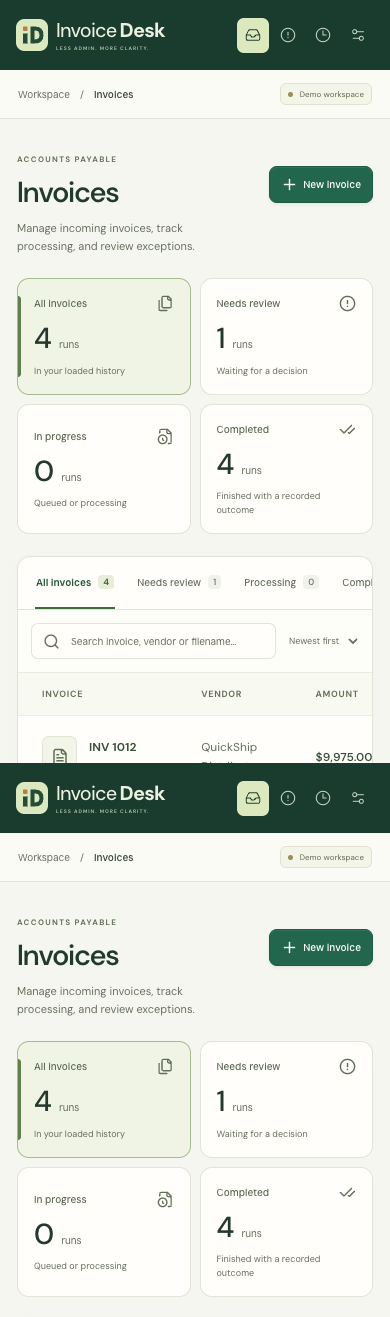
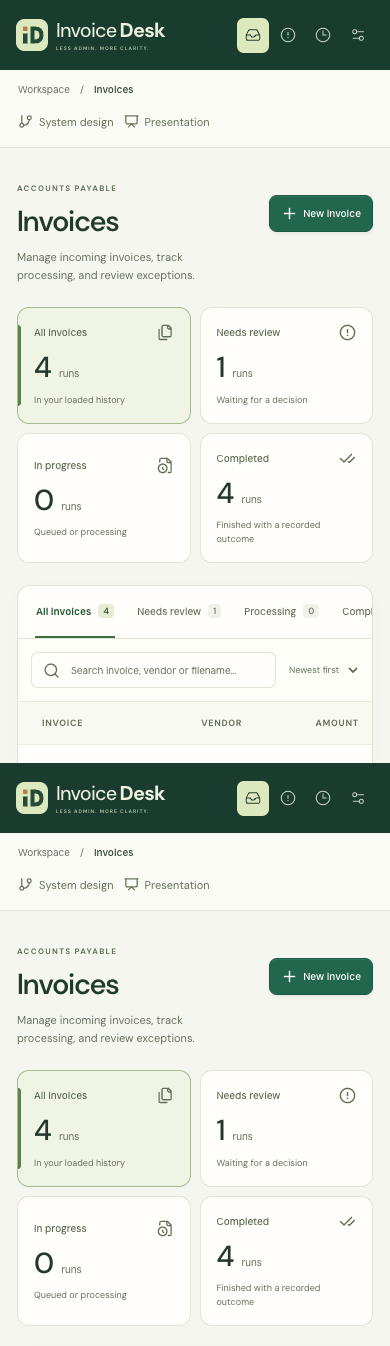
Prioritize invoice decisions and clarify refresh behavior

diff --git a/frontend/src/features/runs/RunDetails.tsx b/frontend/src/features/runs/RunDetails.tsx
@@ -36,9 +36,11 @@ export function RunDetails({ run, events, source, pdfUrl, pdfPages = 1, sourceEr
   const seen = new Set(events.map((event) => event.stage));
   if (seen.has('critique')) seen.add('approval');
   const invoice = run.invoice;
+  const needsAttention = run.outcome === 'needs_review' || run.outcome === 'rejected' || run.lifecycle === 'failed' || run.findings.some(f => f.severity === 'ERROR' || f.severity === 'REVIEW');
   const status = run.outcome === 'paid' && !run.receipt ? <span className="status status-warning"><span className="status-dot" />Receipt unavailable</span> : <Status status={run.outcome ?? run.lifecycle} />;
   const documentControls = pdfUrl && <div className="document-options"><button className="text-button" aria-pressed={documentView === 'original'} onClick={() => setDocumentView('original')}>Original PDF</button><button className="text-button" aria-pressed={documentView === 'text'} disabled={source === null} onClick={() => setDocumentView('text')}>Extracted text</button></div>;
   const sourceContent = sourceError ? <div className="source-message"><AlertCircle size={20} /><p>{sourceError}</p></div> : pdfUrl && documentView === 'original' ? <>{previewFailed ? <p role="alert">Preview unavailable. Download the original PDF or use extracted text.</p> : <img className="pdf-preview" alt={`Original invoice PDF page ${pdfPage}`} src={api?.previewUrl(run.run_id, pdfPage) ?? `/api/v1/runs/${encodeURIComponent(run.run_id)}/preview?page=${pdfPage}`} onError={() => setPreviewFailed(true)} />}{pdfPages > 1 && <div className="pdf-pages"><button className="text-button" disabled={pdfPage <= 1} onClick={() => { setPreviewFailed(false); setPdfPage((page) => page - 1); }}>Previous page</button><span>Page {pdfPage} of {pdfPages}</span><button className="text-button" disabled={pdfPage >= pdfPages} onClick={() => { setPreviewFailed(false); setPdfPage((page) => page + 1); }}>Next page</button></div>}<a className="text-button" href={pdfUrl} download={run.filename ?? 'invoice.pdf'}>Download original PDF</a></> : source === null ? <div className="source-message"><FileSearch size={25} /><p>{active ? 'Reading your document…' : 'Loading source text…'}</p></div> : <>{evidence && !source.includes(evidence) && <p className="help-copy">The quoted text could not be located exactly in this source.</p>}<pre>{evidence && source.includes(evidence) ? <>{source.slice(0, source.indexOf(evidence))}<mark ref={mark}>{evidence}</mark>{source.slice(source.indexOf(evidence) + evidence.length)}</> : source}</pre></>;
+  const findingsCard = <div className="content-card findings-card"><div className="card-heading"><div><span className="mini-label">VALIDATION</span><h2>Checks & findings</h2></div><span className="count-pill">{run.findings.length}</span></div><Findings findings={run.findings} onViewEvidence={(value) => { setEvidence(value); setDocumentView('text'); setTab('source'); }} /></div>;
   return <section className="run-view" aria-label="Invoice details">
     <div className="detail-head"><div><div className="detail-kicker">INVOICE RECORD</div><h1>{invoice?.invoice_number ?? run.filename ?? 'Processing invoice'}{status}</h1><p>{invoice?.vendor_name ?? 'Vendor not extracted'}<span className="detail-separator">·</span>{run.filename ?? 'Uploaded document'}</p></div><button className="button button-outline" disabled={exporting || active} onClick={onExport}><ArrowDownToLine size={16} />{exporting ? 'Preparing…' : 'Export trace'}</button></div>
     <div className="record-metadata"><span><span className="mode-dot" />{run.mode === 'mock' ? 'Simulated model' : run.mode === 'live' ? 'Live model' : 'Model mode unavailable'}</span>{run.model && <span>{run.model}</span>}<span>Mock payments only</span>{run.started_at && <span className="record-date">Received {new Date(run.started_at).toLocaleString('en-US', { month: 'short', day: 'numeric', hour: 'numeric', minute: '2-digit' })}</span>}</div>
@@ -52,14 +54,13 @@ export function RunDetails({ run, events, source, pdfUrl, pdfPages = 1, sourceEr
         {run.terminal_reason && !(run.receipt && run.outcome === 'paid') && <div className={`result-note ${run.lifecycle === 'failed' || run.outcome === 'rejected' ? 'bad' : ''}`}><AlertCircle size={19} /><div><strong>{run.outcome === 'needs_review' ? 'Review required before payment' : run.outcome === 'rejected' ? 'Payment blocked' : run.lifecycle === 'failed' ? 'Processing could not finish' : 'Processing summary'}</strong><p>{run.terminal_reason}</p></div></div>}
         {run.outcome === 'paid' && !run.receipt && <div className="result-note bad"><AlertCircle size={19} /><div><strong>Receipt unavailable</strong><p>A paid outcome was returned without a stored receipt. Verify the run before relying on this status.</p></div></div>}
         {run.receipt && <div className="receipt"><div className="receipt-icon"><CheckCircle2 size={22} /></div><div><strong>Mock payment recorded</strong><p>{formatAmount(run.receipt.amount, run.receipt.currency)} · {run.receipt.transaction_id}</p></div><span>SIMULATED</span></div>}
-        <div className="review-layout"><div className="document-pane"><div className="document-toolbar"><span><FileText size={16} />Source document</span>{documentControls}<span className="document-type">{run.filename?.split('.').pop()?.toUpperCase() ?? 'SOURCE'}</span></div><div className="document-sheet">{sourceContent}</div><div className="document-caption"><ShieldCheck size={13} />{pdfUrl && documentView === 'original' ? 'Preview of the original PDF · original available to download' : 'Extracted source text'}</div></div>
-          <div className="record-pane"><div className="content-card extracted-card"><div className="card-heading"><div><span className="mini-label">EXTRACTED INFORMATION</span><h2>Invoice details</h2></div><FileText size={18} /></div>
+        <div className="review-layout">
+          <div className="record-pane">{run.outcome === 'needs_review' && (api && onReviewed ? <ReviewPanel api={api} run={run} onReviewed={onReviewed} /> : <div className="review-hold-note"><LockIcon /><p>This invoice is on hold. A reviewer must verify the flagged details before it can proceed.</p></div>)}{needsAttention && findingsCard}<div className="content-card extracted-card"><div className="card-heading"><div><span className="mini-label">EXTRACTED INFORMATION</span><h2>Invoice details</h2></div><FileText size={18} /></div>
             {invoice ? <><dl className="field-grid"><div><dt>Vendor</dt><dd>{invoice.vendor_name}</dd></div><div><dt>Invoice number</dt><dd>{invoice.invoice_number}</dd></div><div><dt>Invoice date</dt><dd>{invoice.invoice_date ?? 'Not available'}</dd></div><div><dt>Due date</dt><dd>{invoice.due_date ?? 'Not available'}</dd></div></dl><div className="table-wrap"><table><thead><tr><th>ITEM</th><th>QTY</th><th>UNIT PRICE</th><th>AMOUNT</th></tr></thead><tbody>{invoice.lines.map((line, index) => <tr key={`${line.line_no}-${index}`}><td><strong>{line.description}</strong>{line.sku && line.sku !== line.description && <small>{line.sku}</small>}</td><td>{line.quantity}</td><td>{formatAmount(line.unit_price, invoice.currency)}</td><td>{formatAmount(line.amount, invoice.currency)}</td></tr>)}</tbody></table></div><div className="totals"><div><span>Subtotal</span><span>{formatAmount(invoice.subtotal, invoice.currency)}</span></div><div><span>Tax</span><span>{formatAmount(invoice.tax, invoice.currency)}</span></div><div><span>Shipping</span><span>{formatAmount(invoice.shipping, invoice.currency)}</span></div><div className="total-final"><strong>Total</strong><strong>{formatAmount(invoice.total, invoice.currency)}</strong></div></div></>
               : <div className="quiet-empty"><Clock3 size={18} />{active ? 'Fields will appear when processing completes.' : 'No verified invoice fields are available.'}</div>}
-          </div><div className="content-card findings-card"><div className="card-heading"><div><span className="mini-label">VALIDATION</span><h2>Checks & findings</h2></div><span className="count-pill">{run.findings.length}</span></div><Findings findings={run.findings} onViewEvidence={(value) => { setEvidence(value); setDocumentView('text'); setTab('source'); }} /></div>
+          </div>{!needsAttention && findingsCard}
             {run.approval.length > 0 && <div className="content-card"><div className="card-heading"><h2>Review decisions</h2><ShieldCheck size={18} /></div><div className="decision-list">{run.approval.map((approval, index) => <div className="decision" key={`${approval.stage}-${index}`}><span>{approval.stage} · {approval.action}</span><p>{approval.rationale}</p></div>)}</div></div>}
-            {run.outcome === 'needs_review' && (api && onReviewed ? <ReviewPanel api={api} run={run} onReviewed={onReviewed} /> : <div className="review-hold-note"><LockIcon /><p>This invoice is on hold. A reviewer must verify the flagged details before it can proceed.</p></div>)}
-          </div></div>
+          </div><div className="document-pane"><div className="document-toolbar"><span><FileText size={16} />Source document</span>{documentControls}<span className="document-type">{run.filename?.split('.').pop()?.toUpperCase() ?? 'SOURCE'}</span></div><div className="document-sheet">{sourceContent}</div><div className="document-caption"><ShieldCheck size={13} />{pdfUrl && documentView === 'original' ? 'Preview of the original PDF · original available to download' : 'Extracted source text'}</div></div></div>
       </>}
       {tab === 'source' && <div className="document-pane full-source"><div className="document-toolbar"><span><FileText size={16} />Source document</span>{documentControls}<span className="document-type">{run.filename ?? 'Original input'}</span></div><div className="document-sheet">{sourceContent}</div></div>}
       {tab === 'activity' && <div className="content-card activity-card"><div className="card-heading"><div><span className="mini-label">AUDIT TRAIL</span><h2>Processing activity</h2><p>Events recorded by the server, in the order they occurred.</p></div><span className="count-pill">{events.length} events</span></div>{events.length ? <ol className="timeline">{events.map((event) => <li key={event.seq}><div className="timeline-point" /><div><strong>{event.stage}<span>#{event.seq}</span></strong><p>{eventText(event)}</p></div><time>{new Date(event.timestamp).toLocaleTimeString([], { hour: 'numeric', minute: '2-digit', second: '2-digit' })}</time></li>)}</ol> : <div className="quiet-empty">No activity recorded yet.</div>}</div>}

diff --git a/frontend/e2e/invoice-flow.spec.ts b/frontend/e2e/invoice-flow.spec.ts
@@ -34,6 +34,51 @@ test('sidebar can collapse, keep navigation usable and remember the choice', asy
   await expect(page.getByRole('button', { name: 'Collapse sidebar', exact: true })).toBeVisible();
 });
 
+test('project resources explain the real system without starting invoice work', async ({ page }) => {
+  const processingRequests: string[] = [];
+  page.on('request', request => {
+    if (request.method() === 'POST' && /\/api\/v1\/(runs|batches)(?:\/|$)/.test(new URL(request.url()).pathname)) processingRequests.push(request.url());
+  });
+  await page.goto('/');
+  await expect(page.getByRole('button', { name: 'Start a new invoice' })).toBeEnabled();
+  await page.getByRole('button', { name: 'System design', exact: true }).click();
+  await expect(page.getByRole('heading', { name: 'System design', exact: true })).toBeVisible();
+  await expect(page.getByRole('img', { name: 'Invoice Desk current system architecture' })).toBeVisible();
+  await expect(page.getByText('Different roles. One controlled decision.')).toBeVisible();
+  await page.getByRole('button', { name: 'Presentation', exact: true }).click();
+  await expect(page.getByRole('heading', { name: 'An invoice should end with a clear next step.' })).toBeVisible();
+  await page.getByRole('button', { name: 'Next slide' }).click();
+  await expect(page.getByRole('heading', { name: 'Upload. Check. Decide.' })).toBeVisible();
+  await page.getByRole('button', { name: 'Previous slide' }).click();
+  await expect(page.getByText('Slide 1 of 7')).toBeVisible();
+  await page.getByRole('button', { name: 'Open invoice workspace' }).click();
+  await page.getByRole('button', { name: 'Refresh invoices' }).click();
+  expect(processingRequests).toEqual([]);
+  await page.setViewportSize({ width: 390, height: 844 });
+  await page.getByRole('button', { name: 'System design', exact: true }).click();
+  expect(await page.evaluate(() => document.documentElement.scrollWidth > innerWidth)).toBe(false);
+});
+
+test('an invoice needing a decision puts review and blockers before extracted fields', async ({ page }) => {
+  await page.goto('/');
+  await expect(page.getByRole('button', { name: 'Start a new invoice' })).toBeEnabled();
+  await runSample(page, 'invoice_1012.txt');
+  const review = page.getByRole('region', { name: 'Simulated review' });
+  await expect(review).toBeVisible();
+  const before = await page.locator('.record-pane').evaluate(pane => {
+    const reviewCard = pane.querySelector('.review-card')!;
+    const findings = pane.querySelector('.findings-card')!;
+    const details = pane.querySelector('.extracted-card')!;
+    return Boolean(reviewCard.compareDocumentPosition(findings) & Node.DOCUMENT_POSITION_FOLLOWING)
+      && Boolean(findings.compareDocumentPosition(details) & Node.DOCUMENT_POSITION_FOLLOWING);
+  });
+  expect(before).toBe(true);
+  await page.setViewportSize({ width: 390, height: 844 });
+  const reviewBox = await review.boundingBox();
+  const sourceBox = await page.locator('.review-layout > .document-pane').boundingBox();
+  expect(reviewBox!.y).toBeLessThan(sourceBox!.y);
+});
+
 test('valid invoice is processed once, traced and isolated from another workspace', async ({ page, browser }) => {
   await page.goto('/');
   await expect(page.getByRole('button', { name: 'Start a new invoice' })).toBeEnabled();

diff --git a/frontend/src/styles/app.css b/frontend/src/styles/app.css
@@ -82,7 +82,7 @@ a { color: var(--indigo); }
 .button-outline:hover:not(:disabled) { border-color: #9dae92; background: #f9faf3; }
 .icon-button { display: inline-grid; place-items: center; height: 38px; width: 38px; border-radius: 8px; color: #616f5d; }
 .icon-button:hover { background: #eaf0e1; color: #244b32; }
-.refresh-button { border: 1px solid #dce2d2; background: #fffefa; width: 42px; height: 42px; }
+.refresh-button { border: 1px solid #dce2d2; background: #fffefa; width: auto; height: 42px; }
 .queue-stats { display: grid; grid-template-columns: repeat(4, minmax(0, 1fr)); gap: 14px; margin-bottom: 28px; }
 .stat-card { position: relative; overflow: hidden; padding: 19px 21px 17px; text-align: left; border: 1px solid #e0e5d7; background: #fffefa; border-radius: 12px; transition: border-color .15s, background .15s; }
 .stat-card:hover { border-color: #a4b99a; }
@@ -250,7 +250,7 @@ td small { display: block; color: #646d5c; font-size: 10px; margin-top: 4px; }
 .tabs button[aria-selected=true] { color: #35653e; border-color: #58804c; }
 .tabs button > span { font-size: 9px; padding: 2px 5px; color: #616f52; background: #eaf0df; border-radius: 4px; margin-left: 6px; }
 .tab-content { padding-top: 23px; }
-.review-layout { display: grid; grid-template-columns: minmax(0, 1fr) minmax(0, 1.15fr); gap: 22px; align-items: start; }
+.review-layout { display: grid; grid-template-columns: minmax(0, 1.15fr) minmax(0, 1fr); gap: 22px; align-items: start; }
 .record-pane { display: grid; gap: 19px; min-width: 0; }
 .document-pane { background: #edf0e6; border: 1px solid #dce3d0; border-radius: var(--radius); overflow: hidden; min-width: 0; }
 .document-toolbar { padding: 16px 18px; display: flex; flex-wrap: wrap; align-items: center; justify-content: space-between; gap: 13px; background: #fffefa; border-bottom: 1px solid var(--line); }

diff --git a/frontend/README.md b/frontend/README.md
@@ -34,9 +34,15 @@ The UI does not edit source documents, determine payment eligibility, invent tot
 
 A custom Invoice Desk lettermark is used in the app and browser icons. `public/` contains the SVG, matching PNG favicons, Apple touch icon and web manifest. The bundled DM Sans font and its license are in `public/fonts/`; no external font request is needed. The workspace uses forest-green navigation, warm light surfaces, a first-invoice illustration, and a consistent layout for intake, review, history and rules. The desktop sidebar can collapse to icons and remembers the choice in browser storage. On narrow screens the navigation is condensed, the document review stacks, and tables scroll inside their own container.
 
-## Verification on 3 November 2026
+## Project resources and priority
 
-- Node 22.13.1; TypeScript and ESLint passed.
+System design and Presentation are available from the top bar. The architecture view describes the actual local stack, agent roles, storage, security boundaries and future scaling work. The seven-part presentation has slide controls and keyboard navigation; opening it does not start a processing or payment action.
+
+Held invoices show review controls and findings before extracted details. Rejected invoices put findings first. The source remains alongside the decision content on desktop and below it on mobile. Refresh reloads history only; it does not reprocess documents or make payments.
+
+## Verification on 4 November 2026
+
+- Node 22; TypeScript and ESLint passed.
 - Vitest: 36 tests passed. Coverage includes error bodies and status codes, CSRF and access-code headers, cancellation, exact decimal display, receipt gating, original PDF retrieval, text/preview switching, evidence location, explicit processing, duplicate clicks, queue search/sort and status grouping.
 - Production build passed.
 - Real Brave browser against the local backend in **mock mode**, using a separate temporary database: a TXT sample reached a stored mock-payment receipt; an invalid CSV sample was rejected with findings; an uploaded JSON file was processed; its JSON trace downloaded with stored events; history survived refresh; and the 20-file sample batch completed. These are workflow checks, not live-model quality measurements.
@@ -48,7 +54,7 @@ Screenshots in `docs/screenshots/` show actual local simulated runs, not interce
 - `new-invoice-upload.png`, `new-invoice.png`, `new-invoice-mobile.png`
 - `invoice-record.png`, `invoice-exception.png`, `simulated-review.png`, `batch-results.png`, `processing-rules.png`
 
-The current simulated review screen is shown in `docs/screenshots/simulated-review.png`; `pdf-review.png` shows the original PDF preview. The screenshots were refreshed for the current design using actual local mock runs. Seven Playwright tests exercise the integrated mock workflow, including review controls and original PDF inspection.
+The current simulated review screen is shown in `docs/screenshots/simulated-review.png`; `pdf-review.png` shows the original PDF preview. `system-design.png` and `presentation.png` show the project resources. The screenshots use actual local mock runs. Nine Playwright tests exercise the integrated workflow, including sidebar persistence, resource navigation, review priority, controls and original PDF inspection.
 
 ## Remaining integration boundaries
 

diff --git a/docs/evaluation.md b/docs/evaluation.md
@@ -6,7 +6,7 @@
 | --- | --- | --- |
 | Python tests | 713 passed, 4 live tests deselected | Deterministic rules, controlled providers, API, security, workflow, CLI, conflict persistence, legacy holds, grounding, cancellation and original PDF inspection. |
 | Frontend unit and interaction tests | 36 passed | Controlled HTTP responses; no live model. |
-| Browser tests | 7 passed | Real local backend in mock mode; valid invoice, rejection, workspace isolation, mobile intake, simulated review and rendered original PDF pages. |
+| Browser tests | 9 passed | Real local backend in mock mode; valid invoice, rejection, workspace isolation, mobile intake, simulated review and rendered original PDF pages. |
 | Mutation checks | Historical baseline: 52/52 caught | Measured before the corrections; not rerun for the current source. Current safeguard regressions are included in the Python suite. |
 | Container smoke | Passed on Linux amd64, 512 MB RAM / 0.1 CPU | Non-root image, custom port, access gate, browser production cookie on loopback, invoice outcomes, native PDF preview, review, export, isolation, full batch and CLI. Peak memory 213,676,032 bytes; no OOM. |
 | Supplied-file regression | 20/20 expected outcomes matched | Each file on a fresh isolated ledger, simulated reader, fixed processing date 3 Nov 2026. Known examples, not a blind set or LLM accuracy estimate. |

diff --git a/README.md b/README.md
@@ -2,6 +2,8 @@
 
 A local invoice-processing prototype for the fictional Acme Corp case. It reads invoices, checks items against SQLite inventory, explains exceptions, runs a simulated approval and critique, and records a **mock** payment only after deterministic checks pass. A React inbox lets an operator inspect source text, findings, decisions and receipts.
 
+The top bar includes System design and Presentation for a walkthrough of the current architecture, agent roles, sample scenarios and limitations. Held invoices put the review decision and blockers first; the source document remains available alongside them.
+
 ![Invoice inbox](frontend/docs/screenshots/inbox-desktop.png)
 
 > **Mode matters:** the default offline `mock` mode uses a deterministic simulated reader, not a language model. An OpenRouter adapter is implemented for a real model, but no live-model run has been verified. Mock mode demonstrates the case's local simulated workflow; it does not measure genuine LLM reasoning or extraction accuracy. OpenRouter needs internet, and a local LLM is not configured.

diff --git a/docs/release-handoff.md b/docs/release-handoff.md
@@ -4,7 +4,7 @@ The local application has been checked with Python 3.12.2 and Node 22.13.1. Curr
 
 - Python: 713 passed; four paid-provider tests deselected.
 - Frontend: TypeScript, ESLint and production build passed; 36 tests passed.
-- Browser: seven integrated Chrome tests passed against an isolated local backend in mock mode, including actual PDF page rendering.
+- Browser: nine integrated Chrome tests passed against an isolated local backend in mock mode, including actual PDF page rendering.
 - Supplied data: all 20 original files retained unchanged; 20 predefined independent-ledger outcomes matched.
 - Shared-ledger batch: six paid, eight rejected, two held, three duplicate, one superseded; USD 30,375.00 in simulated receipts.
 - Source regression evidence records a source-code and policy fingerprint. No genuine model trace has been produced.
